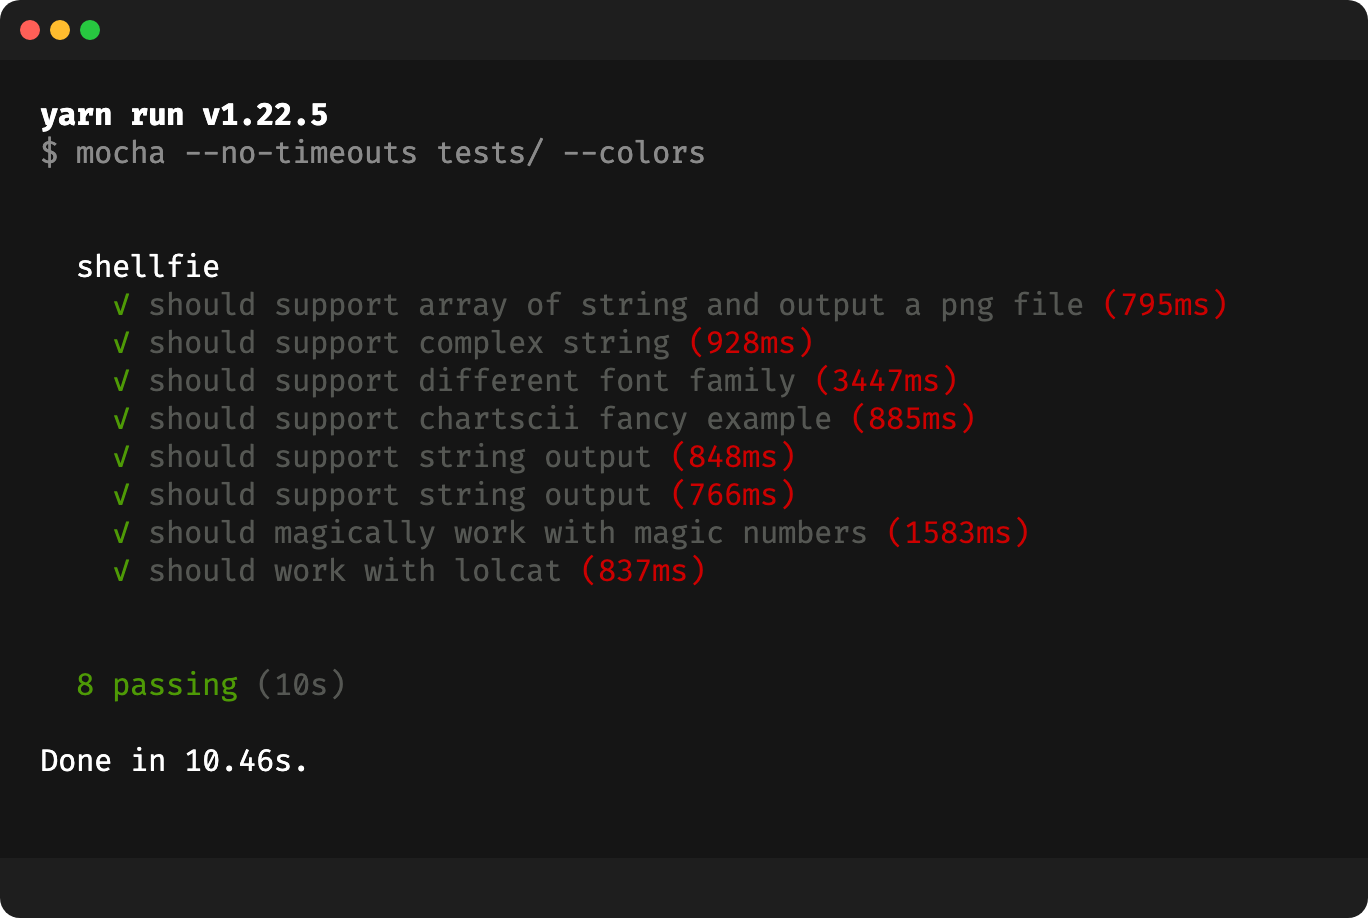
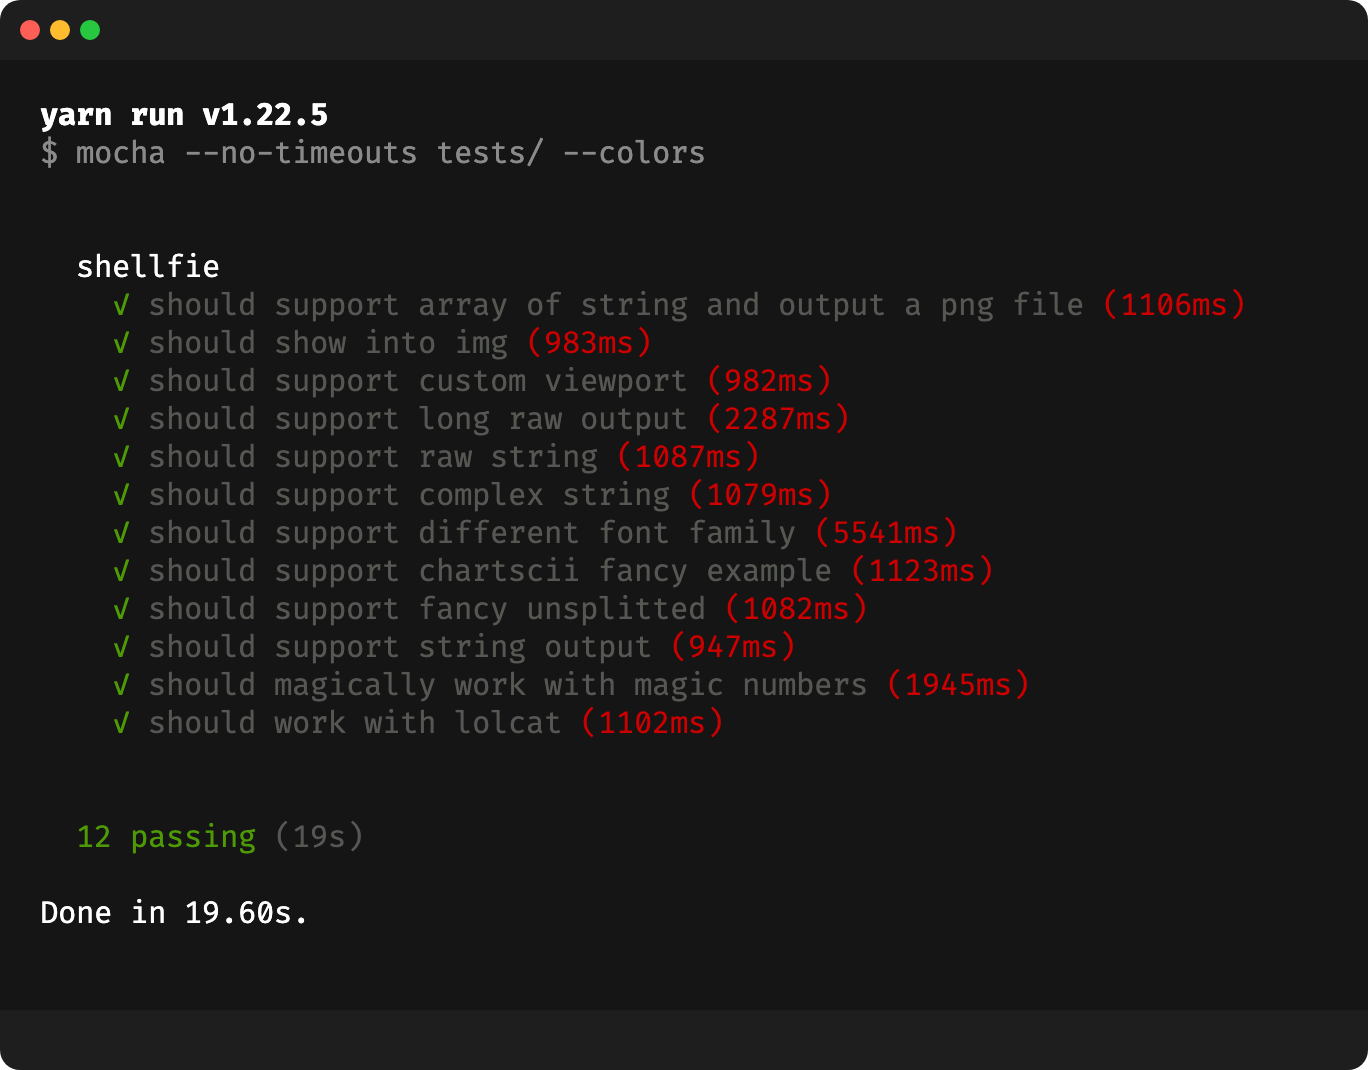
chore: shellfies update and readme

diff --git a/tests/shellfie.test.js b/tests/shellfie.test.js
@@ -18,8 +18,8 @@ describe('shellfie', () => {
             name: 'shellfie',
             style: {
                 fontSize: 15,
-                fontWeight: "bold",
-                fontFamily: "Fira Code"
+                fontWeight: 'bold',
+                fontFamily: 'Fira Code'
             },
             viewport: {
                 width: 400,
@@ -44,7 +44,7 @@ describe('shellfie', () => {
         for (let i = 0; i < 255; i++) {
             background += `\x1b[48;5;${i}m ${i}\x1b[0m`;
         }
-        shellfie(background, { mode: 'raw', name: 'test' });
+        await shellfie(background, { mode: 'raw', name: 'background' });
     });
 
     it('should support raw string', async () => {
@@ -91,21 +91,24 @@ describe('shellfie', () => {
             "",
             "[0m[0m",
             "[0m  shellfie[0m",
-            "  [32m  ✓[0m[90m should support array of string and output a png file[0m[31m (795ms)[0m",
-            "  [32m  ✓[0m[90m should support complex string[0m[31m (928ms)[0m",
-            "  [32m  ✓[0m[90m should support different font family[0m[31m (3447ms)[0m",
-            "  [32m  ✓[0m[90m should support chartscii fancy example[0m[31m (885ms)[0m",
-            "  [32m  ✓[0m[90m should support string output[0m[31m (848ms)[0m",
-            "  [32m  ✓[0m[90m should support string output[0m[31m (766ms)[0m",
-            "  [32m  ✓[0m[90m should magically work with magic numbers[0m[31m (1583ms)[0m",
-            "  [32m  ✓[0m[90m should work with lolcat[0m[31m (837ms)[0m",
+            "  [32m  ✓[0m[90m should support array of string and output a png file[0m[31m (1106ms)[0m",
+            "  [32m  ✓[0m[90m should show into img[0m[31m (983ms)[0m",
+            "  [32m  ✓[0m[90m should support custom viewport[0m[31m (982ms)[0m",
+            "  [32m  ✓[0m[90m should support long raw output[0m[31m (2287ms)[0m",
+            "  [32m  ✓[0m[90m should support raw string[0m[31m (1087ms)[0m",
+            "  [32m  ✓[0m[90m should support complex string[0m[31m (1079ms)[0m",
+            "  [32m  ✓[0m[90m should support different font family[0m[31m (5541ms)[0m",
+            "  [32m  ✓[0m[90m should support chartscii fancy example[0m[31m (1123ms)[0m",
+            "  [32m  ✓[0m[90m should support fancy unsplitted[0m[31m (1082ms)[0m",
+            "  [32m  ✓[0m[90m should support string output[0m[31m (947ms)[0m",
+            "  [32m  ✓[0m[90m should magically work with magic numbers[0m[31m (1945ms)[0m",
+            "  [32m  ✓[0m[90m should work with lolcat[0m[31m (1102ms)[0m",
             "",
             "",
-            "[92m [0m[32m 8 passing[0m[90m (10s)[0m",
+            "[92m [0m[32m 12 passing[0m[90m (19s)[0m",
             "",
-            "[2K[1GDone in 10.46s.",
-
-        ]
+            "[2K[1GDone in 19.60s.",
+        ];
         await shellfie(testResults, { name: 'monospace', style: { fontFamily: 'monospace' } });
         await shellfie(testResults, { name: 'monaco', style: { fontFamily: 'Monaco' } });
         await shellfie(testResults, { name: 'fira', style: { fontFamily: 'Fira Code', fontWeight: 'bold' } });

diff --git a/README.md b/README.md
@@ -88,3 +88,39 @@ outputs:
 - #### `height`
   **type**: `number`   
   **description**: viewport height
+
+  # examples
+  ```js
+  await shellfie(["\x1b[32mGreen line", "\x1b[31;1mRED bold"], { name: 'small', viewport: { width: 200 } });
+  ```   
+![](https://github.com/tool3/shellfie/blob/master/shellfies/small.png?raw=true)    
+
+
+```js
+const testResults = [
+    "[2K[1G[1myarn run v1.22.5[22m",
+    "[2K[1G[2m$ mocha --no-timeouts tests/ --colors[22m",
+    "",
+    "[0m[0m",
+    "[0m  shellfie[0m",
+    "  [32m  ✓[0m[90m should support array of string and output a png file[0m[31m (1106ms)[0m",
+    "  [32m  ✓[0m[90m should show into img[0m[31m (983ms)[0m",
+    "  [32m  ✓[0m[90m should support custom viewport[0m[31m (982ms)[0m",
+    "  [32m  ✓[0m[90m should support long raw output[0m[31m (2287ms)[0m",
+    "  [32m  ✓[0m[90m should support raw string[0m[31m (1087ms)[0m",
+    "  [32m  ✓[0m[90m should support complex string[0m[31m (1079ms)[0m",
+    "  [32m  ✓[0m[90m should support different font family[0m[31m (5541ms)[0m",
+    "  [32m  ✓[0m[90m should support chartscii fancy example[0m[31m (1123ms)[0m",
+    "  [32m  ✓[0m[90m should support fancy unsplitted[0m[31m (1082ms)[0m",
+    "  [32m  ✓[0m[90m should support string output[0m[31m (947ms)[0m",
+    "  [32m  ✓[0m[90m should magically work with magic numbers[0m[31m (1945ms)[0m",
+    "  [32m  ✓[0m[90m should work with lolcat[0m[31m (1102ms)[0m",
+    "",
+    "",
+    "[92m [0m[32m 12 passing[0m[90m (19s)[0m",
+    "",
+    "[2K[1GDone in 19.60s.",
+];
+await shellfie(testResults, { name: 'fira', style: { fontFamily: 'Fira Code', fontWeight: 'bold' } });
+```   
+![](https://github.com/tool3/shellfie/blob/master/shellfies/fira.png?raw=true)   
